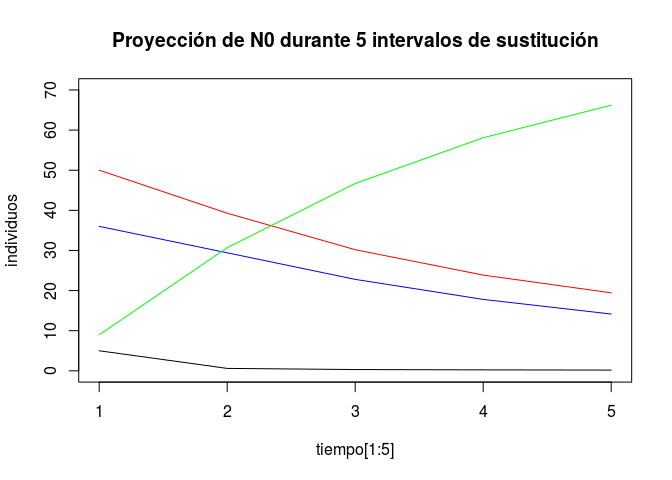
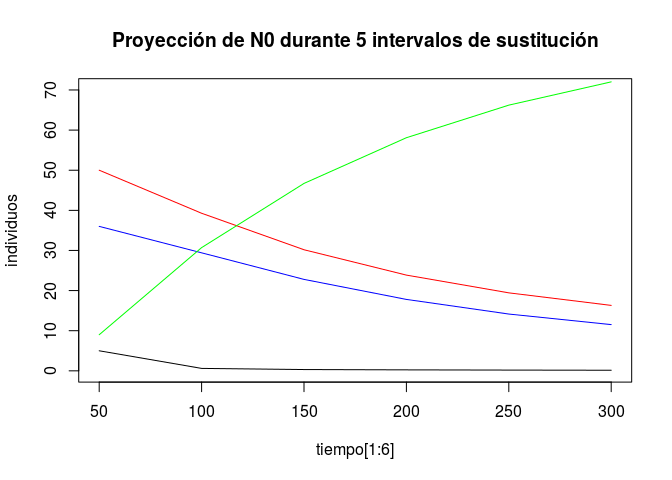
Tiempo en filas en proyecciones

diff --git a/succession.md b/succession.md
@@ -26,7 +26,7 @@ La matriz contiene las probabilidades de sustitución, en columnas, en un interv
 Para introducir los datos y construir la matriz podemos definir primero los **nombres** de las especies, almacenándolos en un vector de texto con `c()`. A continuación almacenamos las **probabilidades** de sustitución en otro vector, numérico en este caso (i.e. valores sin comillas). Por último, combinamos ambos objetos en la **matriz** de proyección con `matrix2()`:
 
 ``` r
-nombres <- c("Betula","Nyssa","Acer","Fagus") 
+especies <- c("Betula","Nyssa","Acer","Fagus") 
 
 probabilidades <- c(
   0.05, 0.01,   0.00,   0.00,
@@ -35,7 +35,7 @@ probabilidades <- c(
   0.09, 0.17,   0.31,   0.96
   )
 
-matriz <- matrix2(probabilidades, nombres)
+matriz <- matrix2(probabilidades, especies)
 pander(matriz)
 ```
 
@@ -90,71 +90,79 @@ pander(matriz)
 
 #### Proyecciones
 
-Para saber las abundancias o proporciones de las distintas especies en el futuro, a partir de las probabilidades de sustitución, proyectamos los cambios del parche forestal asumiendo que la composición inicial **N<sub>0</sub>** son 100 abedules *Betula populifolia*. Definimos también un vector de intervalos de **tiempo**, de 1 a 30.
+Para saber las abundancias o proporciones de las distintas especies en el futuro, a partir de las probabilidades de sustitución, proyectamos los cambios del parche forestal asumiendo que la composición inicial **N<sub>0</sub>** son 100 abedules *Betula populifolia*. Definimos también un vector de intervalos de **tiempo** con el generador de secuencias `seq()`:
 
 ``` r
 n0 <- c(100,0,0,0)
-tiempo <- c(1:30)
+tiempo <- seq(from=50, to=300, by=50)
 ```
 
-Para almacenar los resultados de cada intervalo de sustitución, las **proyecciones**, construimos una matriz con 4 filas (especies) y 5 columnas (intervalos de tiempo), por el momento vacía. Usamos los nombres de las especies y los 5 primeros intervalos de tiempo para identificar las filas `rownames()` y columnas `colnames()` de **proyecciones**:
+Para almacenar los resultados de cada intervalo de sustitución, las **proyecciones**, construimos una matriz con 5 filas (intervalos de tiempo) y 4 columnas (especies), por el momento vacía. Usamos los nombres de las especies y los 5 primeros intervalos de tiempo para identificar las columnas `colnames()` y las filas `rownames()` de **proyecciones**:
 
 ``` r
-proyecciones <- matrix(nrow = 4, ncol = 5)
+proyecciones <- matrix(nrow = 6, ncol = 4)
 
-colnames(proyecciones) <- tiempo[1:5]
-rownames(proyecciones) <- nombres
+colnames(proyecciones) <- especies
+rownames(proyecciones) <- tiempo[1:6]
 
 pander(proyecciones)
 ```
 
-<table style="width:53%;">
+<table style="width:57%;">
 <colgroup>
-<col width="18%" />
-<col width="6%" />
-<col width="6%" />
-<col width="6%" />
-<col width="6%" />
-<col width="6%" />
+<col width="13%" />
+<col width="12%" />
+<col width="11%" />
+<col width="9%" />
+<col width="9%" />
 </colgroup>
 <thead>
 <tr class="header">
 <th align="center"> </th>
-<th align="center">1</th>
-<th align="center">2</th>
-<th align="center">3</th>
-<th align="center">4</th>
-<th align="center">5</th>
+<th align="center">Betula</th>
+<th align="center">Nyssa</th>
+<th align="center">Acer</th>
+<th align="center">Fagus</th>
 </tr>
 </thead>
 <tbody>
 <tr class="odd">
-<td align="center"><strong>Betula</strong></td>
-<td align="center">NA</td>
+<td align="center"><strong>50</strong></td>
 <td align="center">NA</td>
 <td align="center">NA</td>
 <td align="center">NA</td>
 <td align="center">NA</td>
 </tr>
 <tr class="even">
-<td align="center"><strong>Nyssa</strong></td>
-<td align="center">NA</td>
+<td align="center"><strong>100</strong></td>
 <td align="center">NA</td>
 <td align="center">NA</td>
 <td align="center">NA</td>
 <td align="center">NA</td>
 </tr>
 <tr class="odd">
-<td align="center"><strong>Acer</strong></td>
-<td align="center">NA</td>
+<td align="center"><strong>150</strong></td>
 <td align="center">NA</td>
 <td align="center">NA</td>
 <td align="center">NA</td>
 <td align="center">NA</td>
 </tr>
 <tr class="even">
-<td align="center"><strong>Fagus</strong></td>
+<td align="center"><strong>200</strong></td>
 <td align="center">NA</td>
+<td align="center">NA</td>
+<td align="center">NA</td>
+<td align="center">NA</td>
+</tr>
+<tr class="odd">
+<td align="center"><strong>250</strong></td>
+<td align="center">NA</td>
+<td align="center">NA</td>
+<td align="center">NA</td>
+<td align="center">NA</td>
+</tr>
+<tr class="even">
+<td align="center"><strong>300</strong></td>
 <td align="center">NA</td>
 <td align="center">NA</td>
 <td align="center">NA</td>
@@ -163,82 +171,90 @@ pander(proyecciones)
 </tbody>
 </table>
 
-Para proyectar la dinámica del modelo durante 5 intervalos de sustitución podemos usar un bucle. Una de las formas de prepararlos en **R** es la función `for()`
+Para proyectar la dinámica del modelo durante *i* intervalos de sustitución podemos usar un bucle. Una de las formas de prepararlos en **R** es la función `for()`
 
 ``` r
-for (i in 1:5) {
+for (i in 1:6) {
   n0 <- matriz %*% n0
-  proyecciones[,i] <- n0
+  proyecciones[i,] <- n0
   pander(proyecciones)
   Sys.sleep(1)
   }
 ```
 
-El código se lee "*para cada intervalo de tiempo i entre 1 a 5, multiplica matriz por N<sub>0</sub>, y guardalo en la columna i de proyecciones*"<sup>3</sup>. En la consola **R** aparecerá el estado de la matriz en cada intervalo vía `pander(proyecciones)`.
+El código se lee "*para cada intervalo de tiempo i entre 1 a 6, multiplica matriz por N<sub>0</sub>, y guarda el resultado en la columna i de proyecciones*"<sup>3</sup>. En la consola **R** aparecerá el estado de la matriz en cada intervalo vía `pander(proyecciones)`.
 
-<table style="width:74%;">
+<table style="width:60%;">
 <colgroup>
-<col width="18%" />
-<col width="6%" />
+<col width="13%" />
+<col width="12%" />
 <col width="11%" />
-<col width="12%" />
-<col width="12%" />
-<col width="12%" />
+<col width="11%" />
+<col width="11%" />
 </colgroup>
 <thead>
 <tr class="header">
 <th align="center"> </th>
-<th align="center">1</th>
-<th align="center">2</th>
-<th align="center">3</th>
-<th align="center">4</th>
-<th align="center">5</th>
+<th align="center">Betula</th>
+<th align="center">Nyssa</th>
+<th align="center">Acer</th>
+<th align="center">Fagus</th>
 </tr>
 </thead>
 <tbody>
 <tr class="odd">
-<td align="center"><strong>Betula</strong></td>
+<td align="center"><strong>50</strong></td>
 <td align="center">5</td>
-<td align="center">0.61</td>
-<td align="center">0.3246</td>
-<td align="center">0.2441</td>
-<td align="center">0.1902</td>
+<td align="center">36</td>
+<td align="center">50</td>
+<td align="center">9</td>
 </tr>
 <tr class="even">
-<td align="center"><strong>Nyssa</strong></td>
-<td align="center">36</td>
+<td align="center"><strong>100</strong></td>
+<td align="center">0.61</td>
 <td align="center">29.41</td>
-<td align="center">22.79</td>
-<td align="center">17.8</td>
-<td align="center">14.15</td>
+<td align="center">39.27</td>
+<td align="center">30.71</td>
 </tr>
 <tr class="odd">
-<td align="center"><strong>Acer</strong></td>
-<td align="center">50</td>
-<td align="center">39.27</td>
+<td align="center"><strong>150</strong></td>
+<td align="center">0.3246</td>
+<td align="center">22.79</td>
 <td align="center">30.18</td>
-<td align="center">23.86</td>
-<td align="center">19.44</td>
+<td align="center">46.71</td>
 </tr>
 <tr class="even">
-<td align="center"><strong>Fagus</strong></td>
-<td align="center">9</td>
-<td align="center">30.71</td>
-<td align="center">46.71</td>
+<td align="center"><strong>200</strong></td>
+<td align="center">0.2441</td>
+<td align="center">17.8</td>
+<td align="center">23.86</td>
 <td align="center">58.1</td>
+</tr>
+<tr class="odd">
+<td align="center"><strong>250</strong></td>
+<td align="center">0.1902</td>
+<td align="center">14.15</td>
+<td align="center">19.44</td>
 <td align="center">66.22</td>
+</tr>
+<tr class="even">
+<td align="center"><strong>300</strong></td>
+<td align="center">0.151</td>
+<td align="center">11.52</td>
+<td align="center">16.31</td>
+<td align="center">72.02</td>
 </tr>
 </tbody>
 </table>
 
-Usando los resultados almacenados en **proyecciones** podemos pintar el cambio de abundancia de las 4 especies entre t<sub>1</sub> y t<sub>5</sub>. En negro *Betula*, en azul *Nyssa*, en rojo *Acer*, y en verde *Fagus*:
+Usando los resultados almacenados en **proyecciones** podemos pintar el cambio de abundancia de las 4 especies entre los intervalos 1 y 6, t<sub>50</sub> y t<sub>300</sub>. En negro *Betula*, en azul *Nyssa*, en rojo *Acer*, y en verde *Fagus*:
 
 ``` r
-plot(tiempo[1:5], proyecciones[1,], type="l", ylim=c(0,70), ylab = "individuos",
+plot(tiempo[1:6], proyecciones[,1], type="l", ylim=c(0,70), ylab = "individuos",
      main="Proyección de N0 durante 5 intervalos de sustitución")
-lines(tiempo[1:5], proyecciones[2,], col="blue")
-lines(tiempo[1:5], proyecciones[3,], col="red")
-lines(tiempo[1:5], proyecciones[4,], col="green")
+lines(tiempo[1:6], proyecciones[,2], col="blue")
+lines(tiempo[1:6], proyecciones[,3], col="red")
+lines(tiempo[1:6], proyecciones[,4], col="green")
 ```
 
 ![](succession_files/figure-markdown_github/unnamed-chunk-7-1.png)
@@ -251,4 +267,4 @@ Adaptando el código anterior es inmediato proyectar la sustitución de especies
 
 1.  Morin PJ. 2011. Community Ecology, 2nd Edition. Wiley. Tabla 13.2.
 2.  Horn HS. 1975. Markovian properties of forest succession. En *Ecology and Evolution of Communities*; Cody ML, Diamond JM (eds.). Harvard University Press, Cambridge, MS.
-3.  En cada repetición **n0** es sustituido por el resultado de multiplicar el anterior por la matriz, si bien el contenido queda guardado en **proyecciones**. Los bucles `for(){}` son útiles para repetir cálculos y almacenar los resultados sucesivos. Entre paréntesis llevan siempre la variable que identifica la secuencia de repeticiones; entre corchetes, el conjunto de comandos u operaciones en orden de ejecución. En el ejemplo `Sys.sleep()` introduce un retraso de un segundo para ver los resultados sucesivos en la consola. Para acelerar el código podemos prescindir de la visualización de resultados intermedios, y del retraso.
+3.  En cada repetición **n0** es sustituido por el resultado de multiplicar el anterior por la matriz, si bien el contenido queda guardado en **proyecciones**. Los bucles `for(){}` son útiles para repetir cálculos y almacenar los resultados sucesivos. Entre paréntesis llevan siempre la variable que identifica la secuencia de repeticiones; entre corchetes, el conjunto de comandos u operaciones en orden de ejecución. En el ejemplo, `Sys.sleep()` introduce un retraso de un segundo para ver los resultados sucesivos en la consola. Para acelerar el código podemos prescindir de la visualización de resultados intermedios, y del retraso.
